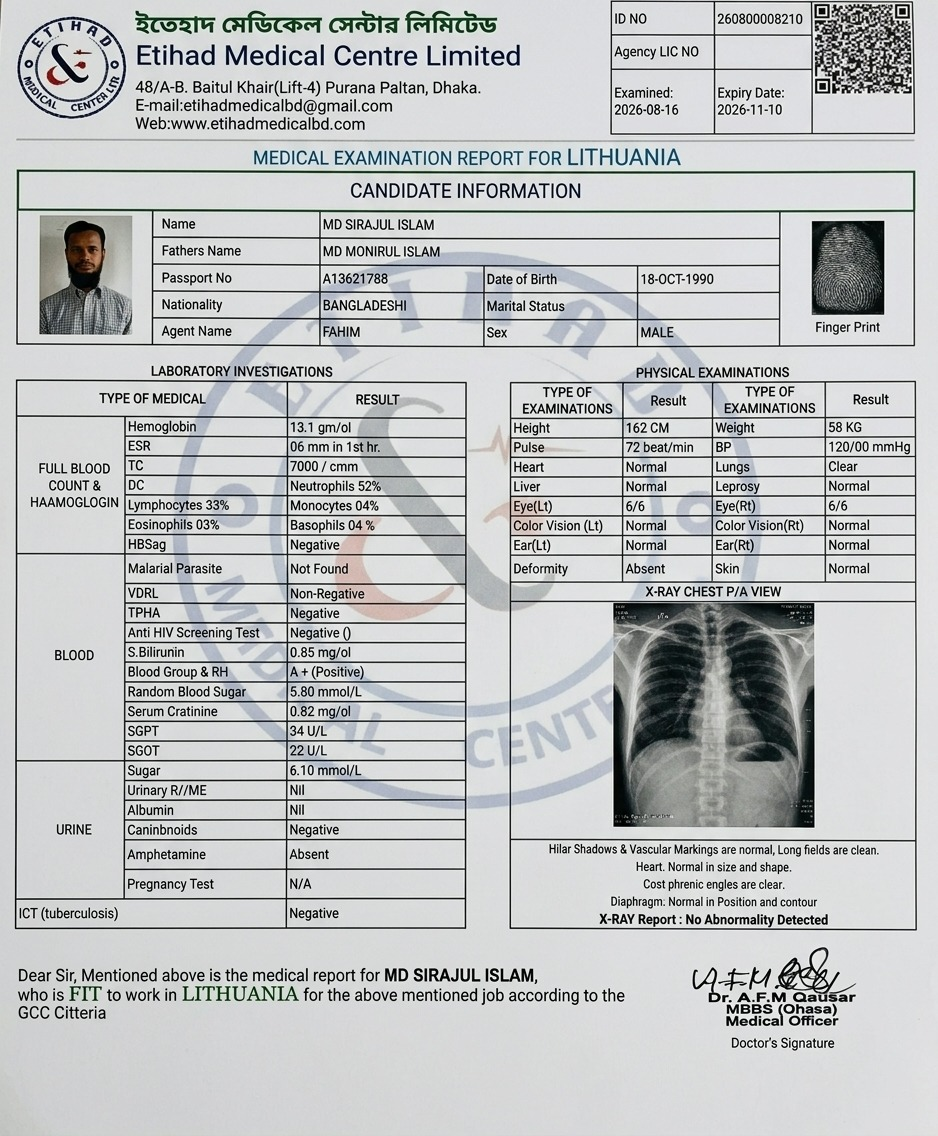
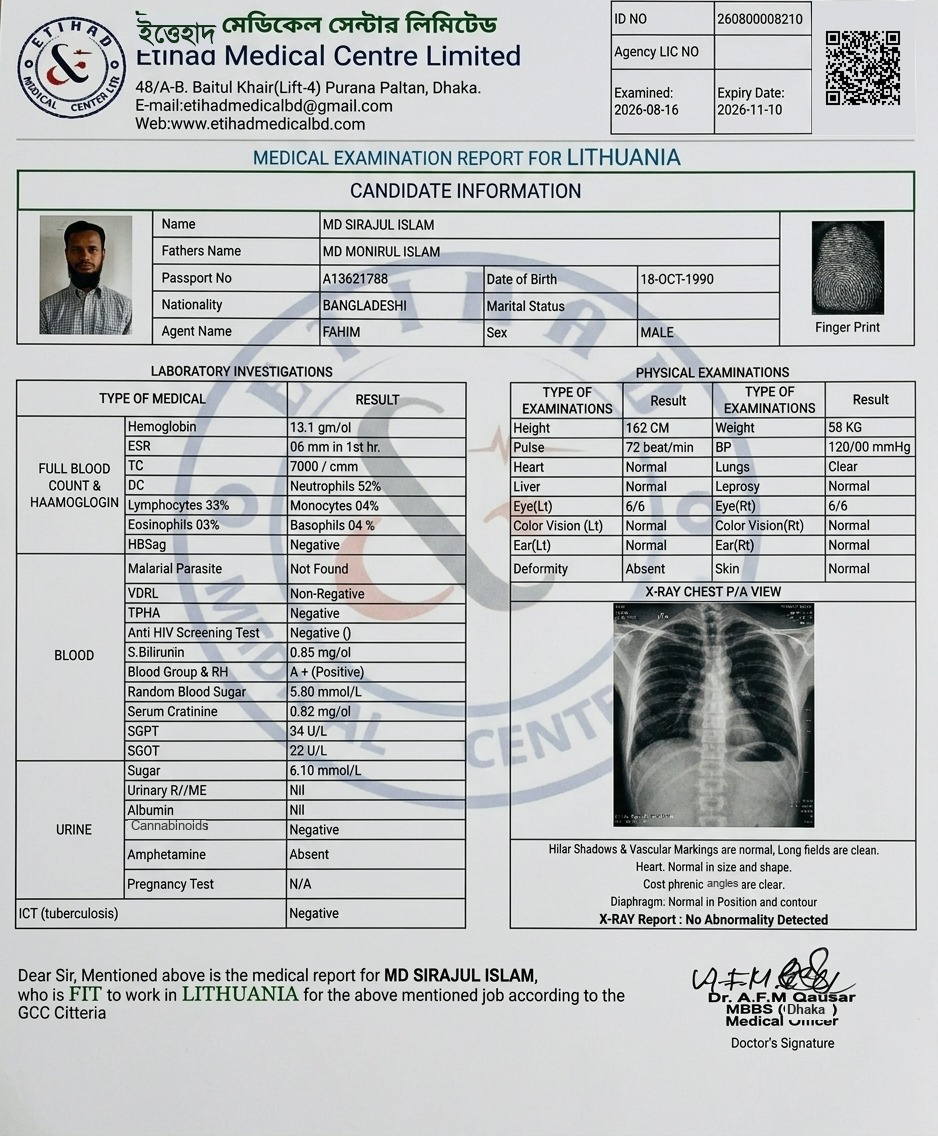
Fix report spelling errors, regenerate scannable QR, add branded header
- Correct Bengali company name, "angles", "Cannabinoids", and doctor's
  MBBS (Dhaka) on the certificate image
- Regenerate the embedded QR code (previous one was corrupted/unreadable)
- Replace header with branded navy banner and a live date badge

diff --git a/report_view.html b/report_view.html
@@ -7,10 +7,9 @@
 <style>
   *{box-sizing:border-box}
   body{margin:0;font-family:Arial,Helvetica,sans-serif;background:#eef1f3;color:#111}
-  .bar{background:#0e5a35;color:#fff;padding:12px 20px;display:flex;justify-content:space-between;align-items:center;flex-wrap:wrap;gap:10px}
-  .bar .brand{display:flex;align-items:center;gap:10px;font-weight:700;font-size:15px}
-  .bar .brand svg{width:26px;height:26px}
-  .bar .id{font-family:Consolas,monospace;background:rgba(255,255,255,.14);padding:4px 10px;border-radius:12px;font-size:12px}
+  .bar{background:#003d6c url(header_banner.png) left center/auto 100% no-repeat;color:#fff;padding:0 20px;height:60px;display:flex;justify-content:flex-end;align-items:center;flex-wrap:wrap;gap:10px}
+  .bar .id{font-family:Consolas,monospace;background:rgba(255,255,255,.16);padding:4px 10px;border-radius:12px;font-size:12px}
+  .bar .date{font-family:Consolas,monospace;background:rgba(255,255,255,.16);padding:4px 10px;border-radius:12px;font-size:12px}
   .toolbar{background:#fff;border-bottom:1px solid #cfd4d8;padding:10px 20px;display:flex;justify-content:space-between;align-items:center;flex-wrap:wrap;gap:10px}
   .toolbar .status{font-size:13px;color:#555}
   .toolbar .status b{color:#0e5a35}
@@ -35,10 +34,7 @@
 <body>
 
 <div class="bar">
-  <div class="brand">
-    <svg viewBox="0 0 60 60"><circle cx="30" cy="30" r="28" fill="#fff" stroke="#0e5a35" stroke-width="2"/><path d="M30 14 v32 M14 30 h32" stroke="#c00" stroke-width="5"/></svg>
-    Etihad Medical Centre Limited
-  </div>
+  <div class="date" id="dateNow">—</div>
   <div class="id" id="pill">ID: —</div>
 </div>
 
@@ -73,6 +69,11 @@
   const ext = params.get("ext") || "jpeg";
 
   document.getElementById("host").textContent = location.host || "(local file)";
+
+  const MONTHS = ["JAN","FEB","MAR","APR","MAY","JUN","JUL","AUG","SEP","OCT","NOV","DEC"];
+  const today = new Date();
+  document.getElementById("dateNow").textContent =
+    String(today.getDate()).padStart(2,"0") + "-" + MONTHS[today.getMonth()] + "-" + today.getFullYear();
 
   if(!id){
     document.getElementById("content").style.display = "none";
